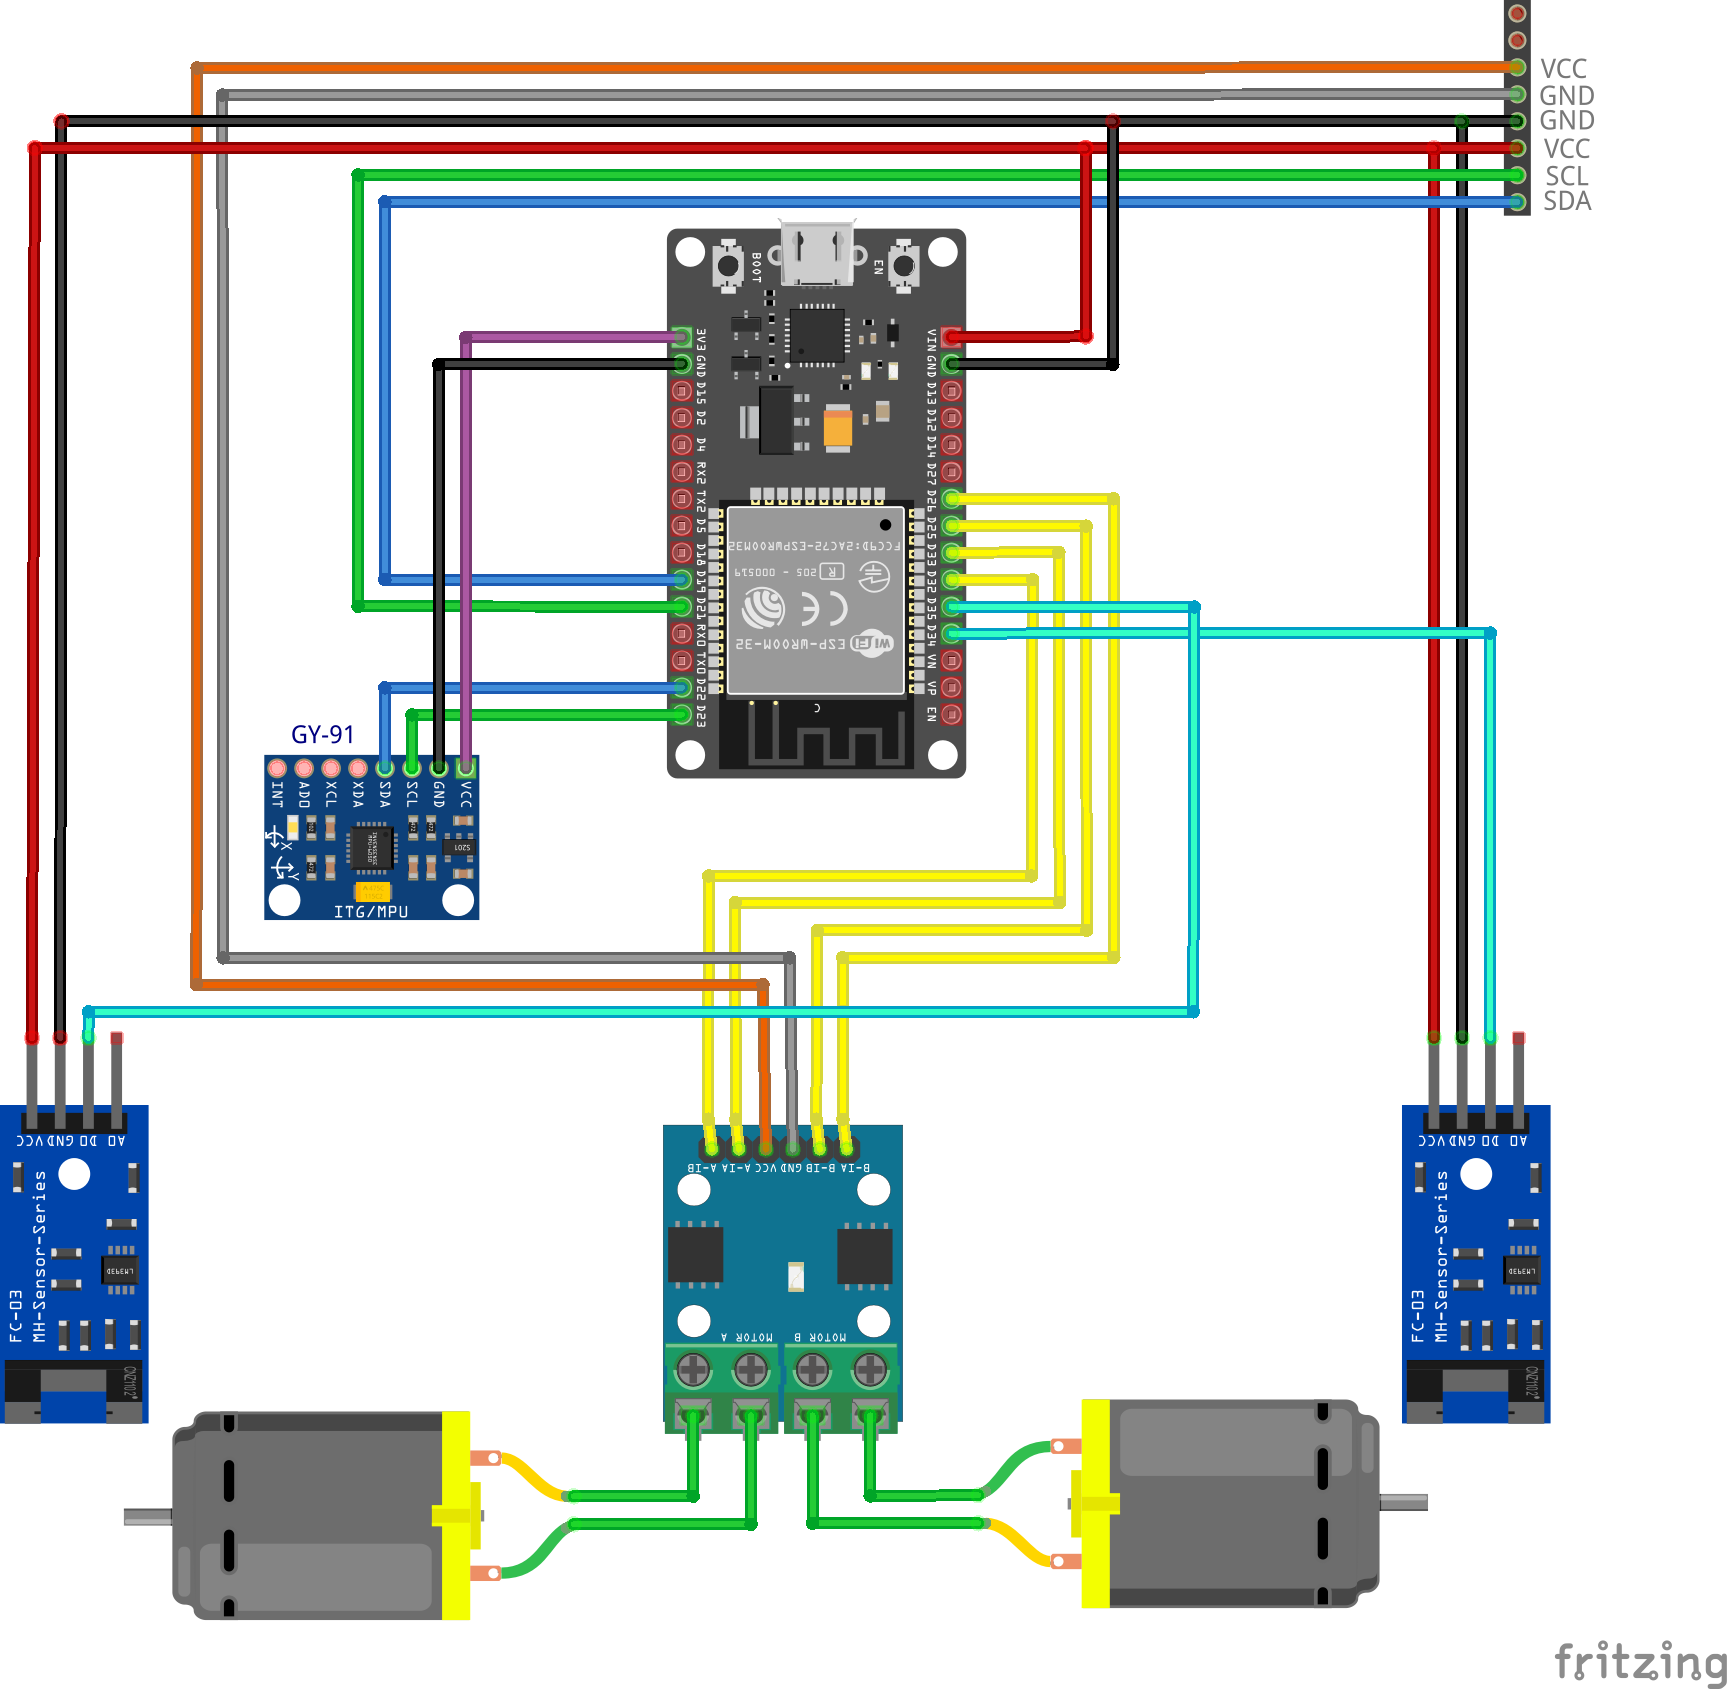
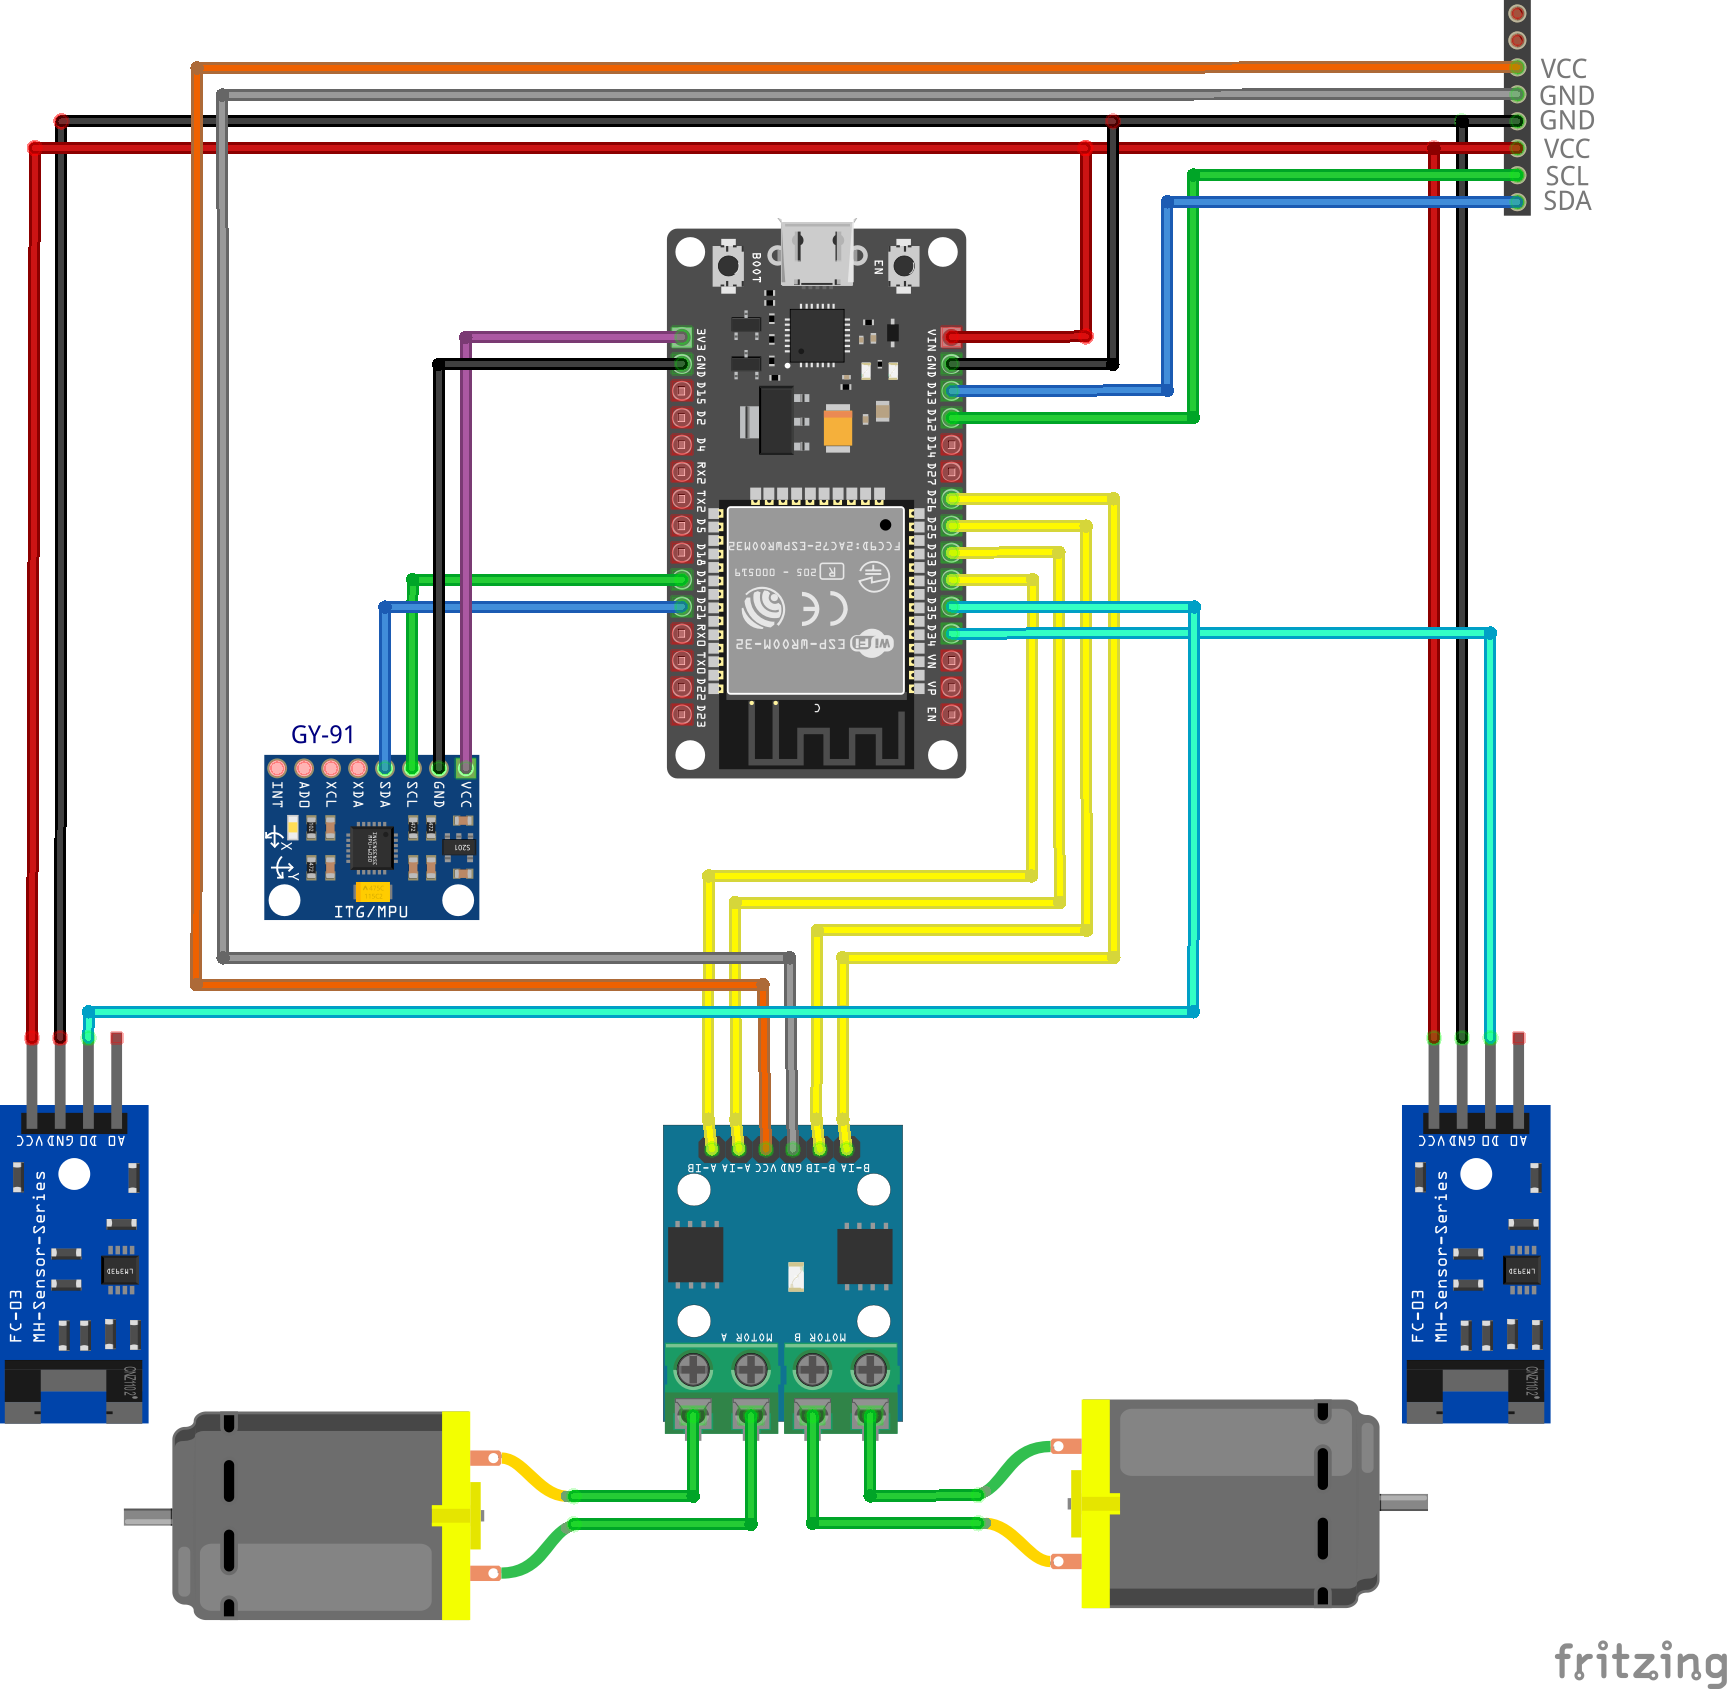
i2c tested + schematic update + motors greeting

Changed region(s): [[0.1875, 0.0924, 0.7188, 0.431], [0.0938, 0.0616, 0.1562, 0.0924]]

diff --git a/software/main/main.cpp b/software/main/main.cpp
@@ -30,7 +30,7 @@ static const char *TAG = "Main task";
 
 static esp_err_t start_mpu(void)
 {
-    ESP_RETURN_RES_ON_ERROR(i2c_master_init(GPIO_NUM_22, GPIO_NUM_23, 100000));
+    ESP_RETURN_RES_ON_ERROR(i2c_master_init(GPIO_NUM_21, GPIO_NUM_19, 100000));
     ESP_RETURN_RES_ON_ERROR(mpu_init());
     ESP_LOGI(TAG, "MPU ready!");
     return ESP_OK;
@@ -39,9 +39,27 @@ static esp_err_t start_mpu(void)
 static esp_err_t start_i2c_slave(void)
 {
     uint8_t addr = 0x2a;
-    i2c_slave_init(GPIO_NUM_19, GPIO_NUM_21, addr);
+    i2c_slave_init(GPIO_NUM_13, GPIO_NUM_12, addr);
     ESP_LOGI(TAG, "I2C slave ready! Address: 0x%x", addr);
     return ESP_OK;
+}
+
+static void start_motors(void){
+        motors.MoveForward();
+        vTaskDelay(100 / portTICK_RATE_MS);
+        motors.Stop();
+
+        vTaskDelay(150 / portTICK_RATE_MS);
+
+        motors.MoveLeft();
+        vTaskDelay(150 / portTICK_RATE_MS);
+        motors.Stop();
+
+        vTaskDelay(150 / portTICK_RATE_MS);
+
+        motors.MoveRight();
+        vTaskDelay(150 / portTICK_RATE_MS);
+        motors.Stop();
 }
 
 extern "C" void app_main()
@@ -49,12 +67,7 @@ extern "C" void app_main()
     ESP_LOGI(TAG, "Start!");
     // start_mpu();
     start_i2c_slave();
-    while (1) {
-        motors.MoveForward();
-        vTaskDelay(1000 / portTICK_RATE_MS);
-        motors.MoveBackward();
-        vTaskDelay(1000 / portTICK_RATE_MS);
-    }
+    start_motors();
     ESP_LOGI(TAG, "Init done");
 
 }

diff --git a/software/main/src/zk_i2c.cpp b/software/main/src/zk_i2c.cpp
@@ -21,13 +21,16 @@ static const char* TAG = "zk_i2c";
 esp_err_t i2c_slave_init(gpio_num_t sda, gpio_num_t scl, uint8_t address)
 {
     ESP_LOGI(TAG, "Slave init");
-    i2c_config_t conf;
-    conf.mode = I2C_MODE_SLAVE;
-    conf.sda_io_num = sda;
-    conf.scl_io_num = scl;
-    conf.slave.slave_addr = address;
-    ESP_ERROR_CHECK(i2c_param_config(I2C_NUM_0, &conf));
-    ESP_ERROR_CHECK(i2c_driver_install(I2C_NUM_0, conf.mode, I2C_SLAVE_RX_BUF_LEN, I2C_SLAVE_TX_BUF_LEN, 0));
+    i2c_config_t conf_slave;
+    conf_slave.mode = I2C_MODE_SLAVE;
+    conf_slave.sda_io_num = sda;
+    conf_slave.sda_pullup_en = GPIO_PULLUP_ENABLE;
+    conf_slave.scl_io_num = scl;
+    conf_slave.scl_pullup_en = GPIO_PULLUP_ENABLE;
+    conf_slave.slave.addr_10bit_en = 0;
+    conf_slave.slave.slave_addr = address;
+    ESP_ERROR_CHECK(i2c_param_config(I2C_NUM_1, &conf_slave));
+    ESP_ERROR_CHECK(i2c_driver_install(I2C_NUM_1, conf_slave.mode, I2C_SLAVE_RX_BUF_LEN, I2C_SLAVE_TX_BUF_LEN, 0));
     return ESP_OK;
 }
 

diff --git a/software/main/src/hw_motors_impl.cpp b/software/main/src/hw_motors_impl.cpp
@@ -19,7 +19,7 @@
 
 static const char *TAG = "motors";
 
-Motors_dc2platform motors(GPIO_NUM_26, GPIO_NUM_25, GPIO_NUM_33, GPIO_NUM_32);
+Motors_dc2platform motors(GPIO_NUM_32, GPIO_NUM_33, GPIO_NUM_25, GPIO_NUM_26);
 
 void init_write_pin(int pin)
 {
